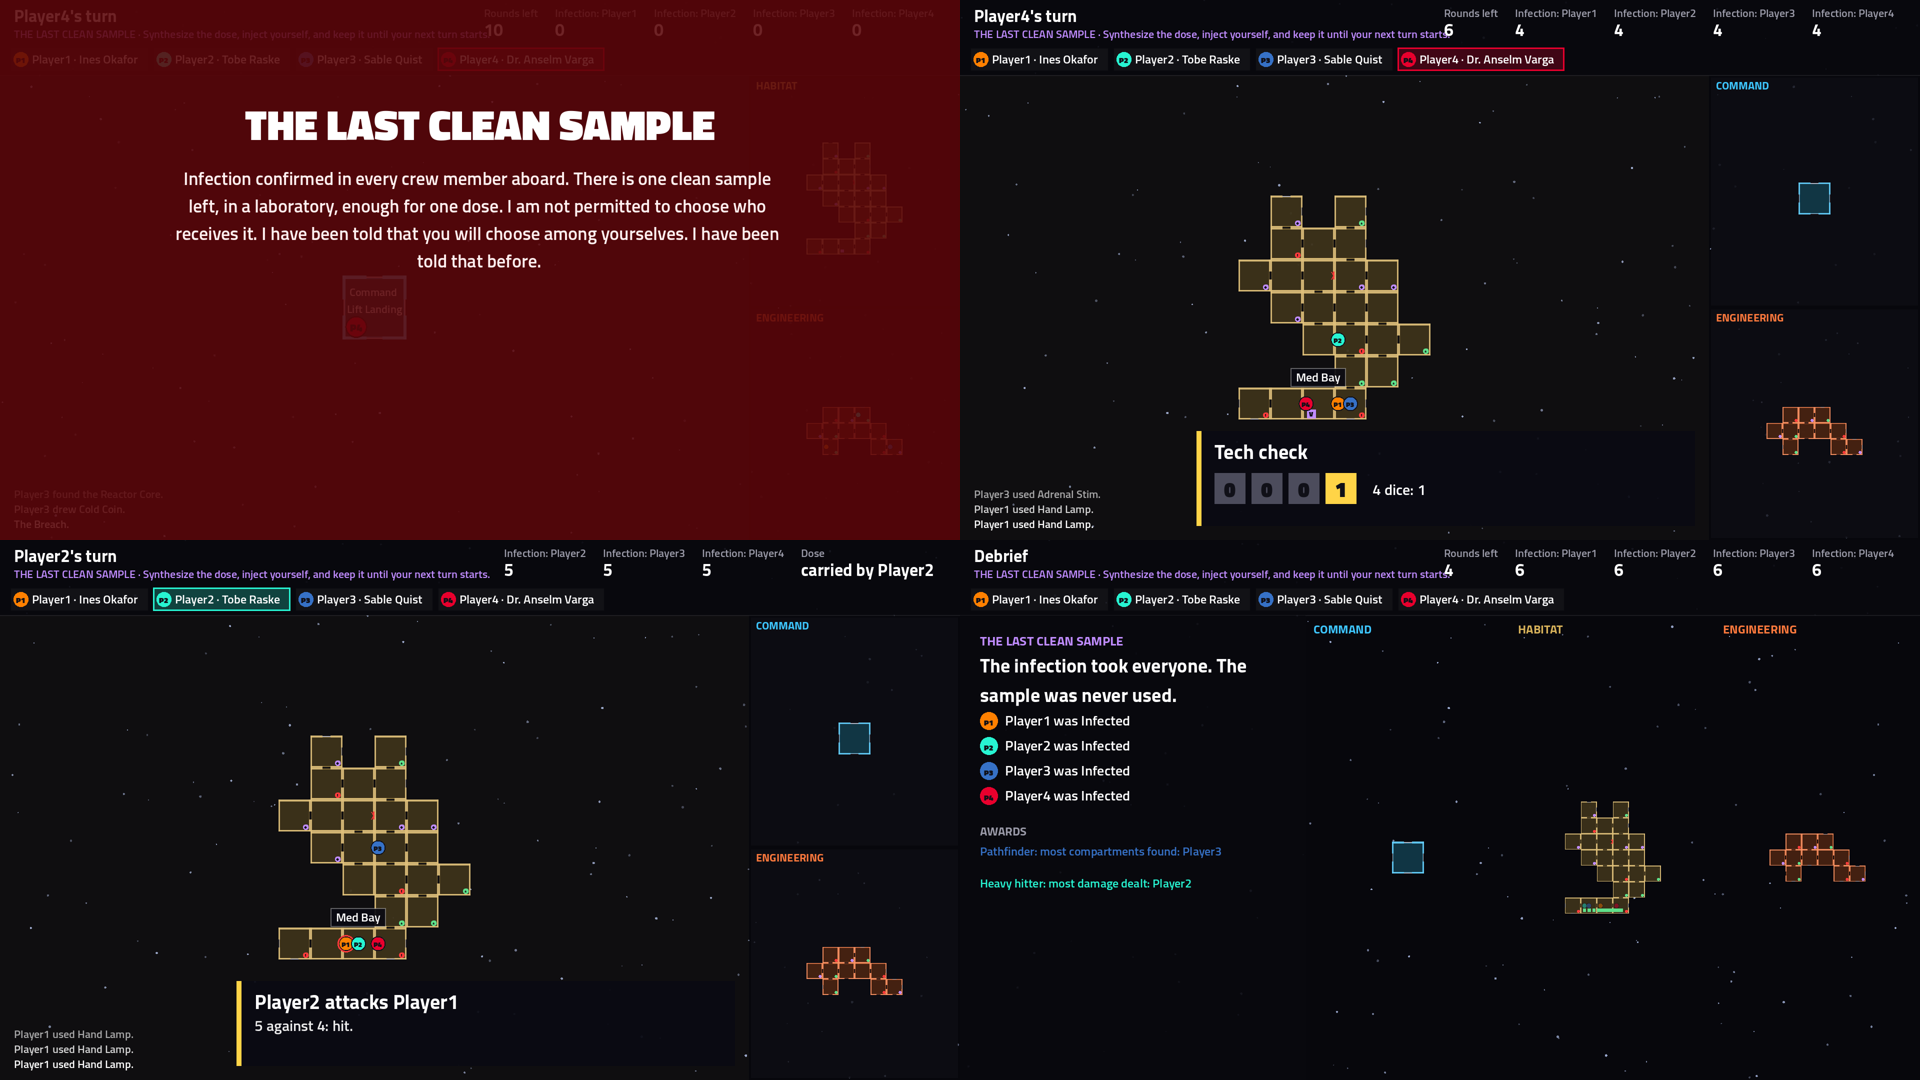
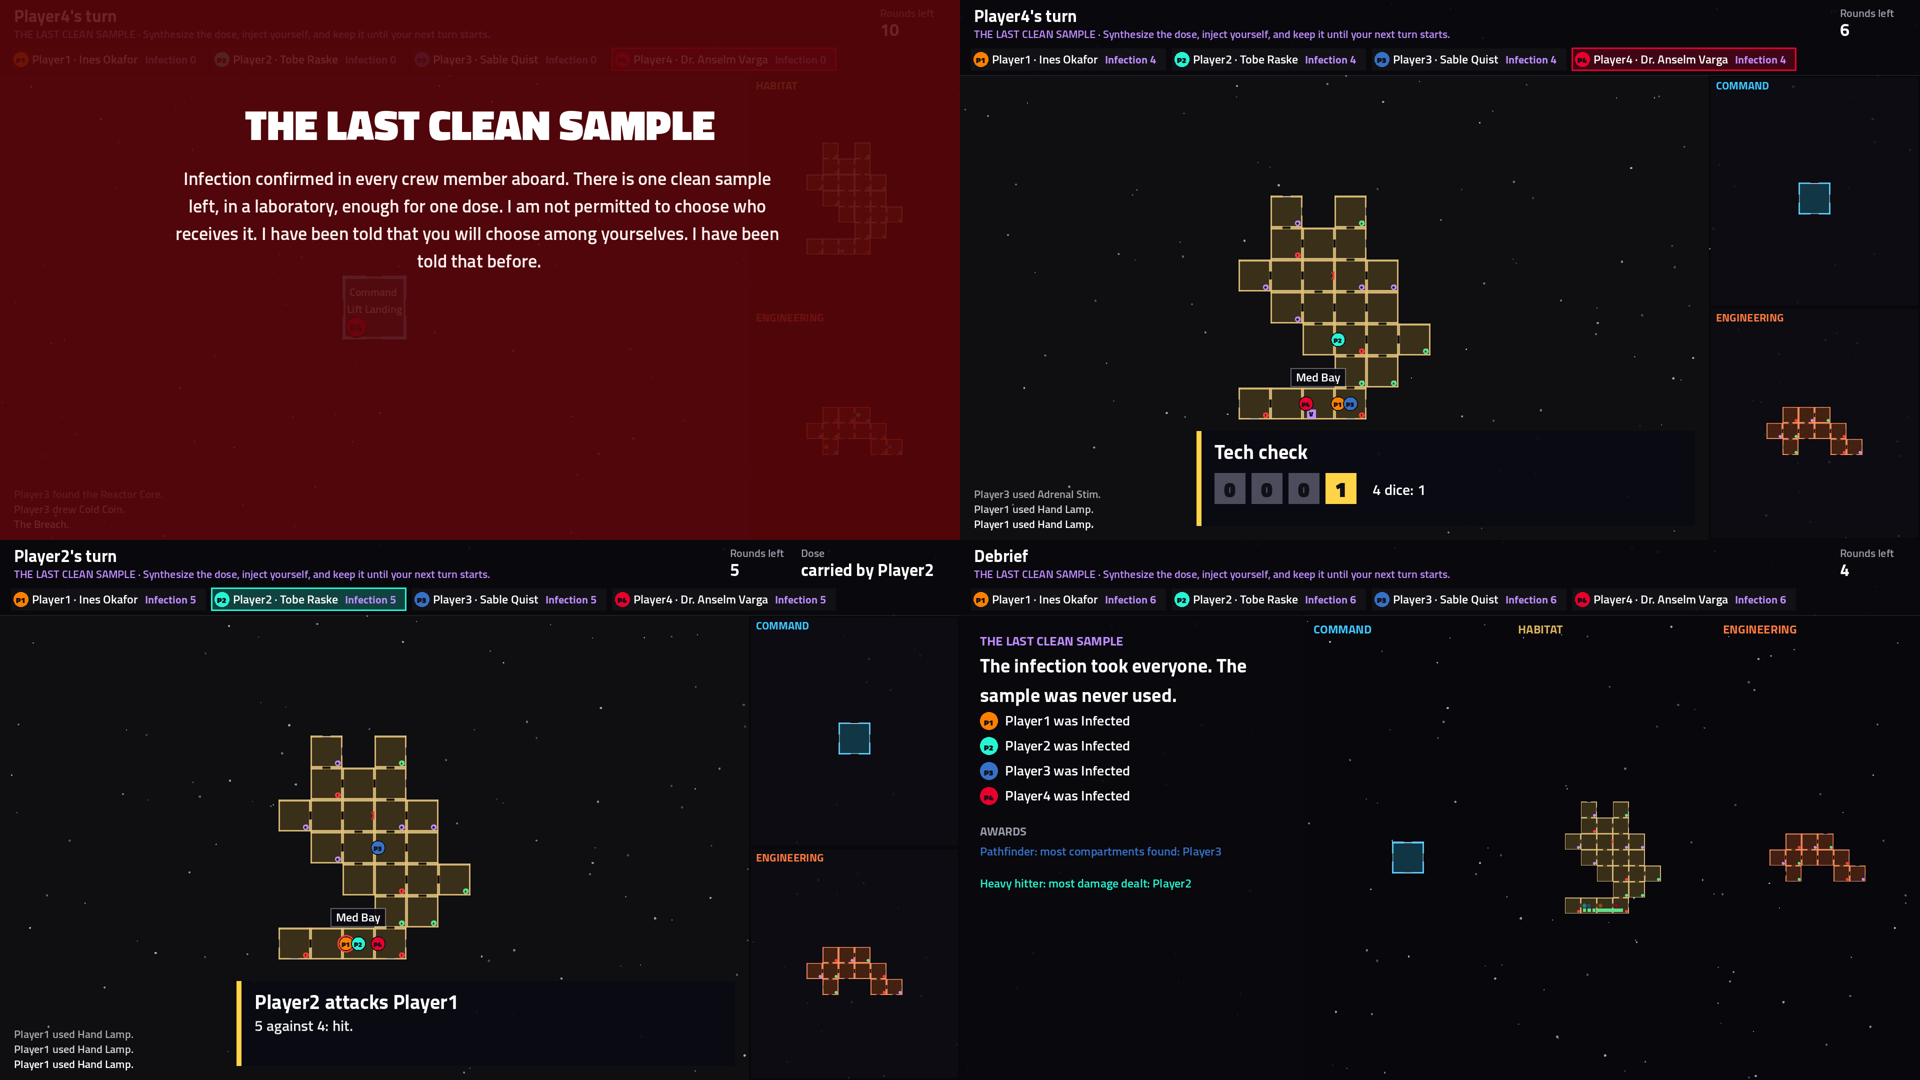
fix(meridian): per-seat counters on the seat chips; the seat strip fits six
Found in M7's TV review. In The Last Clean Sample, four "Infection: PlayerN" figures pushed "Rounds left" off the TV,
and the objective line ran into a number.

- A per-seat counter (declared by its content as a prefix) is now a badge on its seat's chip, "Infection 4", and
  leaves the figures. One of Us Isn't's suspicion counters move there too. ScenarioLooks.PerSeat gives the badge its
  short label; HudSeat gains Badges.
- The figures are laid out first, and the banner and objective line stop short of them.
- The seat strip fits the screen. M4 only reviewed four seats, and six overflowed even without badges. Crew names go
  first, then badges shrink to their numbers; the seat's name, mark and colour always stay.

Checked on the real TV: a six-phone game of The Last Clean Sample passes end to end (108 events signalled), with all
six chips and their badges on screen. The review's sheets are regenerated. A model test pins the badges.

Claude-Session: https://claude.ai/code/session_01UZNTTXCeQHvUQGiYC2nRNm

diff --git a/src/ArcBox.Host/games/meridian/HudCanvas.cs b/src/ArcBox.Host/games/meridian/HudCanvas.cs
@@ -85,24 +85,31 @@ public partial class HudCanvas : Node2D
         }
         DrawLine(new Vector2(0, (float)top.H), new Vector2(size.X, (float)top.H), new Color(1, 1, 1, 0.08f), 2);
 
-        // The banner, the scenario's title and its open objectives.
-        DrawString(ArcTheme.Bold, new Vector2(28, 44), hud.Banner, HorizontalAlignment.Left, size.X * 0.45f, 34, Colors.White);
+        // The figures first, right-aligned, so the text beside them knows where to stop.
+        var statsLeft = DrawStats(hud, size);
+
+        // The banner, the scenario's title and its open objectives, never running into the figures.
+        var room = Math.Max(200f, statsLeft - 28 - 24);
+        DrawString(ArcTheme.Bold, new Vector2(28, 44), hud.Banner, HorizontalAlignment.Left, Math.Min(size.X * 0.45f, room), 34, Colors.White);
         if (hud.Scenario is { } title)
         {
             var line = hud.Objectives.Count > 0 ? $"{title.ToUpperInvariant()} · {hud.Objectives[0]}" : title.ToUpperInvariant();
-            DrawString(ArcTheme.SemiBold, new Vector2(28, 76), line, HorizontalAlignment.Left, size.X * 0.55f, 22, new Color("c08cff"));
+            DrawString(ArcTheme.SemiBold, new Vector2(28, 76), line, HorizontalAlignment.Left, room, 22, new Color("c08cff"));
         }
 
-        // The seat strip.
+        // The seat strip. It fits the screen: with six seats, crew names go first (the name, mark and colour still say who),
+        // then per-seat counters shrink to their numbers.
         var x = 28f;
         var y = (float)top.H - 32;
+        var fit = 0;
+        while (fit < 2 && hud.Seats.Sum(s => Chip(s, fit).Width + 12) > size.X - 56)
+        {
+            fit++;
+        }
         foreach (var seat in hud.Seats)
         {
             var colour = ArcTheme.PlayerColour(seat.Colour);
-            var name = seat.Crew is { } crew ? $"{seat.Name} · {crew}" : seat.Name;
-            var tags = (seat.Auto ? " auto" : "") + (seat.Offline ? " offline" : "");
-            var width = 44 + ArcTheme.SemiBold.GetStringSize(name, HorizontalAlignment.Left, -1, 24).X
-                        + (tags.Length > 0 ? ArcTheme.Bold.GetStringSize(tags, HorizontalAlignment.Left, -1, 22).X + 8 : 0) + 18;
+            var (name, tags, badges, width) = Chip(seat, fit);
             var chip = new Rect2(x - 6, y - 22, width, 44);
             if (_textures?.DrawBox(this, UiKit.For(_textures.Art, UiElement.SeatSlot), chip) != true)
             {
@@ -128,15 +135,39 @@ public partial class HudCanvas : Node2D
                 DrawString(ArcTheme.Black, new Vector2(x - 1, y + 7), seat.Mark, HorizontalAlignment.Center, 30, seat.Mark.Length > 1 ? 16 : 20, new Color("101018"));
             }
             DrawString(ArcTheme.SemiBold, new Vector2(x + 36, y + 8), name, HorizontalAlignment.Left, -1, 24, seat.Offline ? ArcTheme.Dim : Colors.White);
+            var tx = x + 36 + ArcTheme.SemiBold.GetStringSize(name, HorizontalAlignment.Left, -1, 24).X + 8;
             if (tags.Length > 0)
             {
-                var tx = x + 36 + ArcTheme.SemiBold.GetStringSize(name, HorizontalAlignment.Left, -1, 24).X + 8;
                 DrawString(ArcTheme.Bold, new Vector2(tx, y + 8), tags, HorizontalAlignment.Left, -1, 22, new Color("ffd447"));
+                tx += ArcTheme.Bold.GetStringSize(tags, HorizontalAlignment.Left, -1, 22).X + 8;
+            }
+            if (badges.Length > 0)
+            {
+                DrawString(ArcTheme.Bold, new Vector2(tx + 6, y + 8), badges, HorizontalAlignment.Left, -1, 22, new Color("c08cff"));
             }
             x += width + 12;
         }
+    }
 
-        // The figures, right-aligned.
+    /// <summary>
+    /// A seat chip's text and width at a level of fit: 0 in full, 1 without the crew name, 2 with counters as bare numbers.
+    /// </summary>
+    private static (string Name, string Tags, string Badges, float Width) Chip(HudSeat seat, int fit)
+    {
+        var name = seat.Crew is { } crew && fit == 0 ? $"{seat.Name} · {crew}" : seat.Name;
+        var tags = (seat.Auto ? " auto" : "") + (seat.Offline ? " offline" : "");
+        // The scenario's per-seat counters ("Infection 4"), on the chip they belong to.
+        var badges = string.Join("  ", (seat.Badges.Items.IsDefaultOrEmpty ? [] : seat.Badges.Items)
+            .Select(b => fit < 2 ? $"{b.Label} {b.Value}" : b.Value));
+        var width = 44 + ArcTheme.SemiBold.GetStringSize(name, HorizontalAlignment.Left, -1, 24).X
+                    + (tags.Length > 0 ? ArcTheme.Bold.GetStringSize(tags, HorizontalAlignment.Left, -1, 22).X + 8 : 0)
+                    + (badges.Length > 0 ? ArcTheme.Bold.GetStringSize(badges, HorizontalAlignment.Left, -1, 22).X + 14 : 0) + 18;
+        return (name, tags, badges, width);
+    }
+
+    /// <summary>The figures, right-aligned, as many as fit beside the banner. Returns the left edge of the leftmost drawn.</summary>
+    private float DrawStats(HudModel hud, Vector2 size)
+    {
         var right = size.X - 28;
         foreach (var stat in hud.Stats.Reverse())
         {
@@ -150,6 +181,7 @@ public partial class HudCanvas : Node2D
             DrawString(ArcTheme.Bold, new Vector2(right - w, 72), stat.Value, HorizontalAlignment.Left, -1, 34, Colors.White);
             right -= w + 10;
         }
+        return right;
     }
 
     /// <summary>The card panel or dice tray, sliding in and out with the beat's steps.</summary>

diff --git a/games/Meridian/Meridian.Presentation/Hud/HudModel.cs b/games/Meridian/Meridian.Presentation/Hud/HudModel.cs
@@ -4,7 +4,9 @@ using Meridian.Presentation.Board;
 namespace Meridian.Presentation.Hud;
 
 /// <summary>A seat on the TV's strip. It shows who is active, who a bot plays and who is offline; never a side or a role.</summary>
-public sealed record HudSeat(string Id, string Name, string? Crew, string Mark, int Colour, bool Active, bool Auto, bool Offline);
+/// <param name="Badges">The scenario's per-seat counters for this seat ("Infection 4"), drawn on its chip, not in the figures.</param>
+public sealed record HudSeat(string Id, string Name, string? Crew, string Mark, int Colour, bool Active, bool Auto, bool Offline,
+                             EqArray<HudStat> Badges = default);
 
 /// <summary>One figure on the HUD: a label and its value.</summary>
 public sealed record HudStat(string Label, string Value);
@@ -37,8 +39,13 @@ public sealed record HudModel(
     public static HudModel Of(MeridianHostView view, Beat? beat, double waited = 0, ScenarioLooks? looks = null)
     {
         var marks = BoardStyle.Marks([.. view.Seats.Select(s => s.Name)]);
-        var seats = view.Seats.Select((s, i) => new HudSeat(s.Id, s.Name, s.Crew, marks[i], s.Colour, s.Active, s.Auto, !s.Connected)).ToEqArray();
-        var stats = view.Scenario is { } panel ? ScenarioStats(view, panel, looks ?? ScenarioLooks.None) : ExploreStats(view);
+        var shown = looks ?? ScenarioLooks.None;
+        // Per-seat counters go on their seat's chip: in the figures, six of them would crowd out everything else.
+        var badges = (view.Scenario?.Counters ?? []).Select(c => (Counter: c, Seat: shown.PerSeat(c.Id))).Where(x => x.Seat is not null)
+            .ToLookup(x => x.Seat!.Value.Seat, x => new HudStat(x.Seat!.Value.Label, $"{x.Counter.Value}"));
+        var seats = view.Seats.Select((s, i) => new HudSeat(s.Id, s.Name, s.Crew, marks[i], s.Colour, s.Active, s.Auto, !s.Connected,
+                                                            badges[s.Id].ToEqArray())).ToEqArray();
+        var stats = view.Scenario is { } panel ? ScenarioStats(view, panel, shown) : ExploreStats(view);
         var log = view.Log.Skip(Math.Max(0, view.Log.Count - LogLines)).ToEqArray();
         return new HudModel(seats, view.Banner, stats, view.Scenario?.Title,
                             view.Scenario?.Objectives.Where(o => o.State == ObjectiveState.Open).Select(o => o.Text).ToEqArray() ?? [],
@@ -52,7 +59,7 @@ public sealed record HudModel(
     {
         string Name(string seat) => view.Seats.FirstOrDefault(s => s.Id == seat)?.Name ?? seat;
         var stats = new List<HudStat> { new(panel.RoundsLeft == 1 ? "Final round" : "Rounds left", $"{panel.RoundsLeft}") };
-        foreach (var counter in panel.Counters)
+        foreach (var counter in panel.Counters.Where(c => looks.PerSeat(c.Id) is null))   // per-seat ones are on the chips
         {
             if (looks.Counter(counter.Id, Name) is { } label)
             {

diff --git a/games/Meridian/Meridian.Presentation.Tests/Hud/HudModelTests.cs b/games/Meridian/Meridian.Presentation.Tests/Hud/HudModelTests.cs
@@ -84,4 +84,24 @@ public sealed class HudModelTests
         }, steps: 6000);
         Assert.True(sawRoundsLeft);
     }
+
+    /// <summary>
+    /// Per-seat counters ride on their seat's chip, never in the figures: six of them (The Last Clean Sample at six
+    /// players) crowded the figures off the screen (M7 TV review).
+    /// </summary>
+    [Fact]
+    public void Per_seat_counters_go_on_their_seats_chip_not_in_the_figures()
+    {
+        var looks = ScenarioLooks.Of(BasePack.Pack);
+        var view = new MeridianHostView("endgame", "", [new SeatCard("p1", "Ann", null, 0, true, false, true), new SeatCard("p2", "Bo", null, 1, true, false, false)],
+            [], [], 0, 0, 3, null, [],
+            new ScenarioPanel("The Last Clean Sample", 6, [], [new CounterCard("infection-p1", 4), new CounterCard("infection-p2", 5)], []));
+        var hud = HudModel.Of(view, null, 0, looks);
+        Assert.Equal([new HudStat("Infection", "4")], hud.Seats[0].Badges);
+        Assert.Equal([new HudStat("Infection", "5")], hud.Seats[1].Badges);
+        Assert.DoesNotContain(hud.Stats, s => s.Label.StartsWith("Infection", StringComparison.Ordinal));
+        Assert.Contains(hud.Stats, s => s.Label == "Rounds left");
+        Assert.Equal(("Suspicion", "p3"), looks.PerSeat("suspect-p3"));
+        Assert.Null(looks.PerSeat("orbit"));
+    }
 }

diff --git a/games/Meridian/Meridian.Presentation/Board/ScenarioLooks.cs b/games/Meridian/Meridian.Presentation/Board/ScenarioLooks.cs
@@ -52,6 +52,24 @@ public sealed class ScenarioLooks
         => _tokens.TryGetValue(kind, out var look) && look.Name is { } name ? name : Capital(kind);
 
     /// <summary>
+    /// A per-seat counter (declared as a prefix, such as <c>infection-</c>): its seat and a short label for the seat's chip
+    /// ("Infection: {seat}" becomes "Infection"). Null for any other counter, or one kept off the TV.
+    /// </summary>
+    public (string Label, string Seat)? PerSeat(string id)
+    {
+        foreach (var (prefix, label) in _counters.Where(c => c.Key.EndsWith('-') && id.StartsWith(c.Key, StringComparison.Ordinal)))
+        {
+            if (label is null)
+            {
+                return null;
+            }
+            var shortLabel = label.Replace("{seat}", "", StringComparison.Ordinal).Trim().TrimEnd(':').Trim();
+            return (shortLabel, id[prefix.Length..]);
+        }
+        return null;
+    }
+
+    /// <summary>
     /// A counter's label on the TV, or null for one a scenario keeps off it. A per-seat counter (declared as a prefix)
     /// names its seat. An undeclared counter shows its id, capitalised.
     /// </summary>

diff --git a/docs/superpowers/reports/meridian-tv/README.md b/docs/superpowers/reports/meridian-tv/README.md
@@ -108,7 +108,13 @@ Every run had no errors. Frame times were 25–29 ms median at 1080p (p95 29–3
 - each seat shows its colour and mark;
 - the TV view holds nothing secret.
 
-New since M4: per-seat counters such as "Infection: Player2" and "Suspicion: Player3" follow the same label size.
+**Fixed during this review:**
+- **Per-seat counters crowded the figures.** In The Last Clean Sample, four "Infection: PlayerN" figures pushed "Rounds left" off the screen, and the objective line ran into a number. A per-seat counter is now a badge on its seat's chip ("Infection 4"). One of Us Isn't's suspicion moves there too. The objective line also stops short of the figures.
+- **Six seats overflowed the strip,** with or without badges: M4 reviewed four. The strip now fits the screen by dropping crew names first, then shortening badges to their numbers. The seat's name, mark and colour always stay.
+
+Below, a six-phone game on the real TV at 720p, after the fix:
+
+![Six seats with their badges](m7-six-seats.png)
 
 ## For the first game night
 
